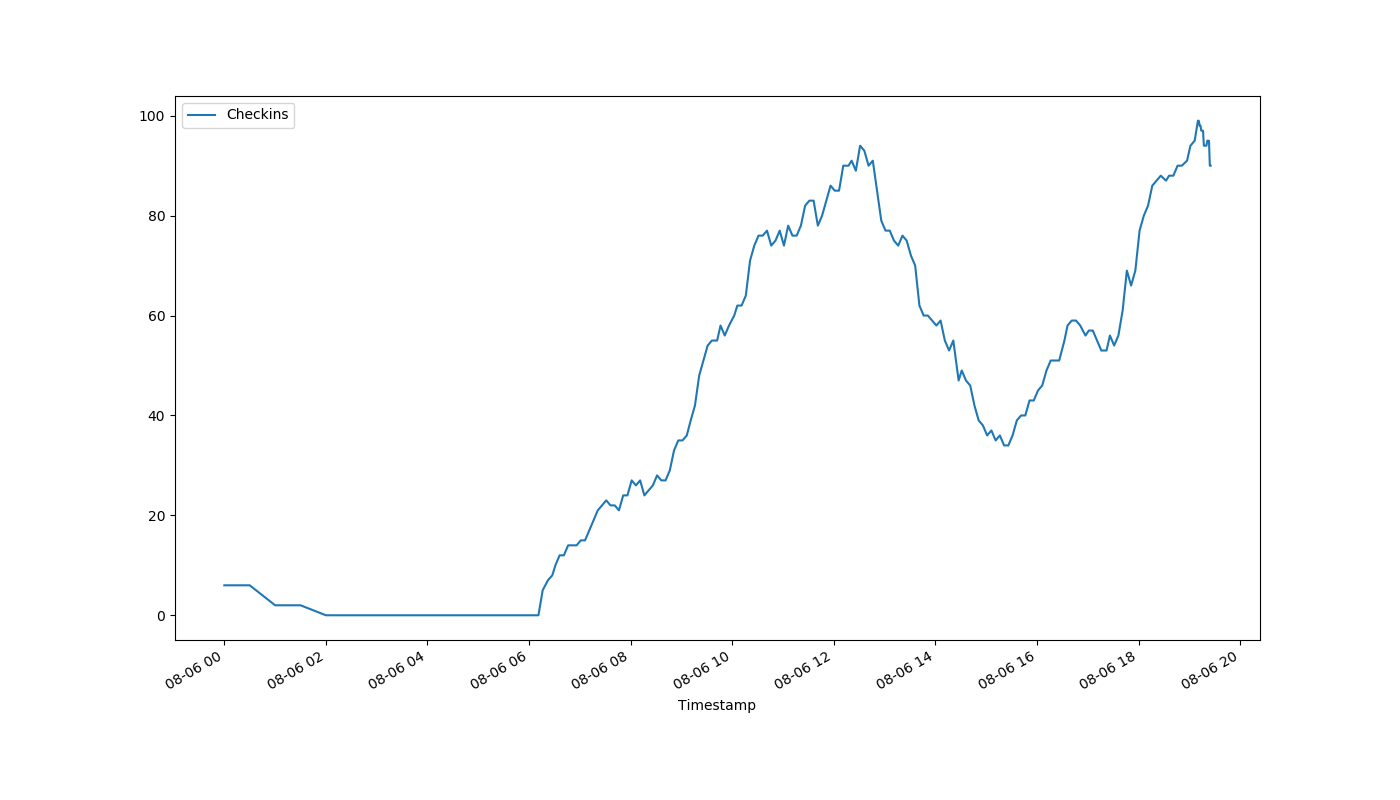
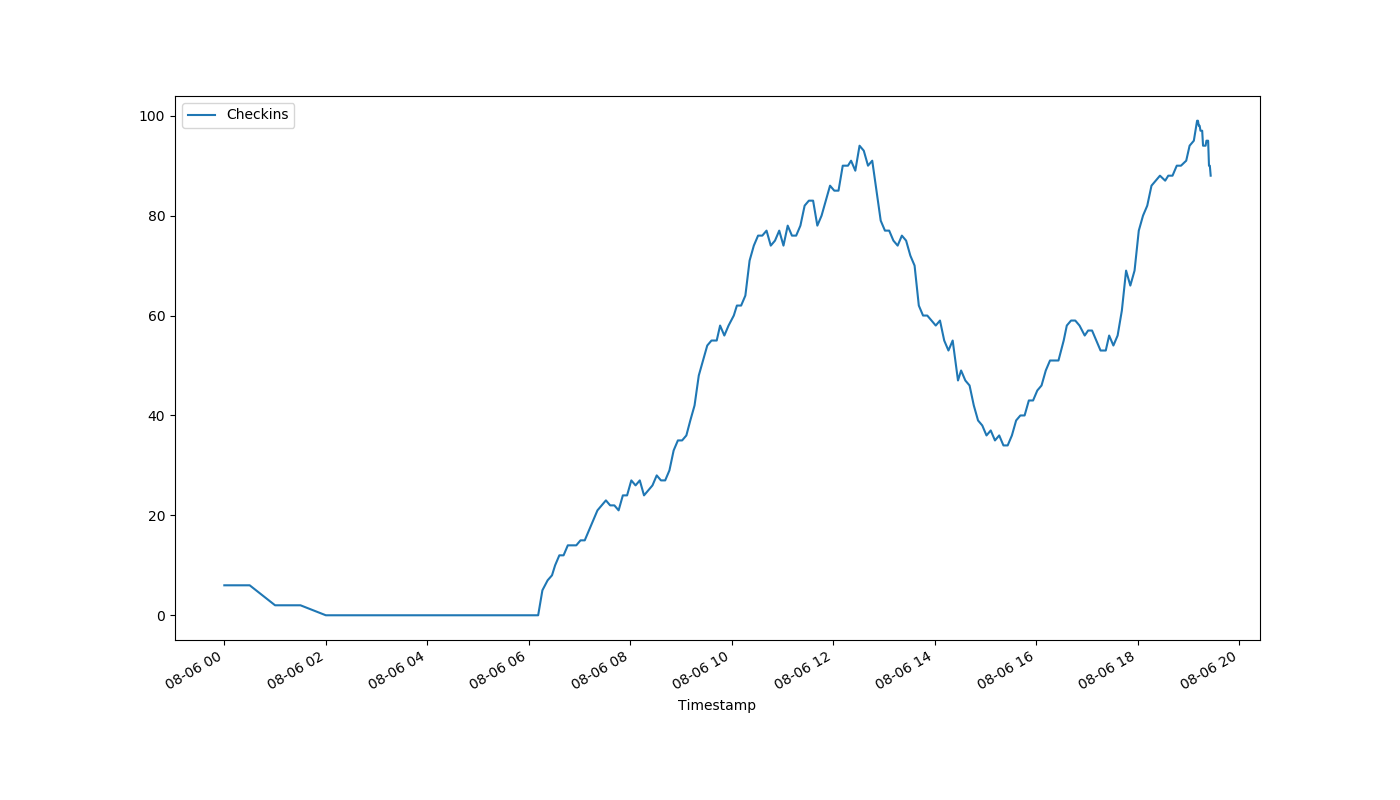
auto-Aug-06-19:28:05

diff --git a/index.html b/index.html
@@ -1,1 +1,1 @@
-<!DOCTYPE html><html><head><meta http-equiv="refresh" content="15"><link rel='stylesheet' href='holmcurrent.css'></head><body><p id='count'>90</p><div id='graph-wrap'><img id='graph' src='holmgraph-Aug-06.png'></div><p id='updated'>Last updated 19:26:06 / 19:25:14</p></body></html>
+<!DOCTYPE html><html><head><meta http-equiv="refresh" content="15"><link rel='stylesheet' href='holmcurrent.css'></head><body><p id='count'>88</p><div id='graph-wrap'><img id='graph' src='holmgraph-Aug-06.png'></div><p id='updated'>Last updated 19:27:06 / 19:26:14</p></body></html>
